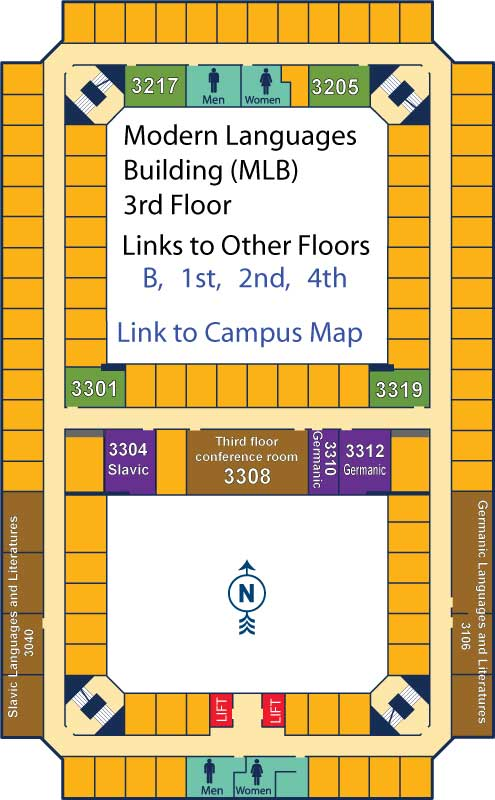
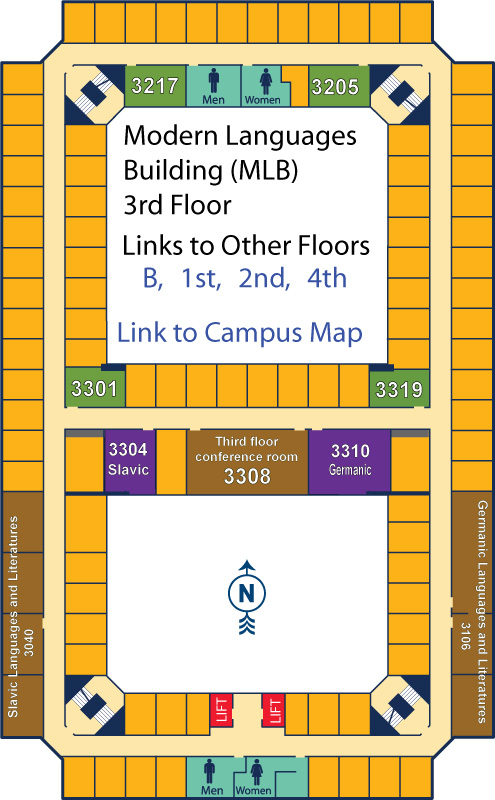
updated maps

diff --git a/public/maps/mlb3.html b/public/maps/mlb3.html
@@ -1,7 +1,6 @@
-<!DOCTYPE html PUBLIC "-//W3C//DTD XHTML 1.0 Transitional//EN" "http://www.w3.org/TR/xhtml1/DTD/xhtml1-transitional.dtd">
-<html xmlns="http://www.w3.org/1999/xhtml">
+
+<!DOCTYPE html>
 <head>
-<meta http-equiv="Content-Type" content="text/html; charset=utf-8" />
 <title>MLB - 3rd floor</title>
 </head>
 <body>
@@ -11,8 +10,7 @@
   <area shape="rect" coords="126,67,186,106" href="../classrooms/MLB3217"  alt="Link to data room 3217" title="Link to data room 3217" />
   <area shape="rect" coords="66,369,124,406" href="../classrooms/MLB3301"  alt="Link to data room 3301" title="Link to data room 3301" />
   <area shape="rect" coords="106,430,155,494" href="../classrooms/MLB3304" alt="Link to data room 3304" title="Link to data room 3304" />
-  <area shape="rect" coords="309,430,337,493" href="../classrooms/MLB3310" alt="Link to data room 3310" title="Link to data room 3310" />
-  <area shape="rect" coords="338,431,389,491" href="../classrooms/MLB3312" alt="Link to data room 3312" title="Link to data room 3312" />
+  <area shape="rect" coords="305,425,395,495" href="../classrooms/MLB3310" alt="Link to data room 3310" title="Link to data room 3310" />
   <area shape="rect" coords="370,368,427,407" href="../classrooms/MLB3319"  alt="Link to data room 3319" title="Link to data room 3319" />
   <area shape="rect" coords="306,263,349,295" href="mlb4.html"  alt="Link to 4th floor" title="Link to 4th floor" />
   <area shape="rect" coords="235,264,291,295" href="mlb2.html"  alt="Link to 2nd floor" title="Link to 2nd floor" />
